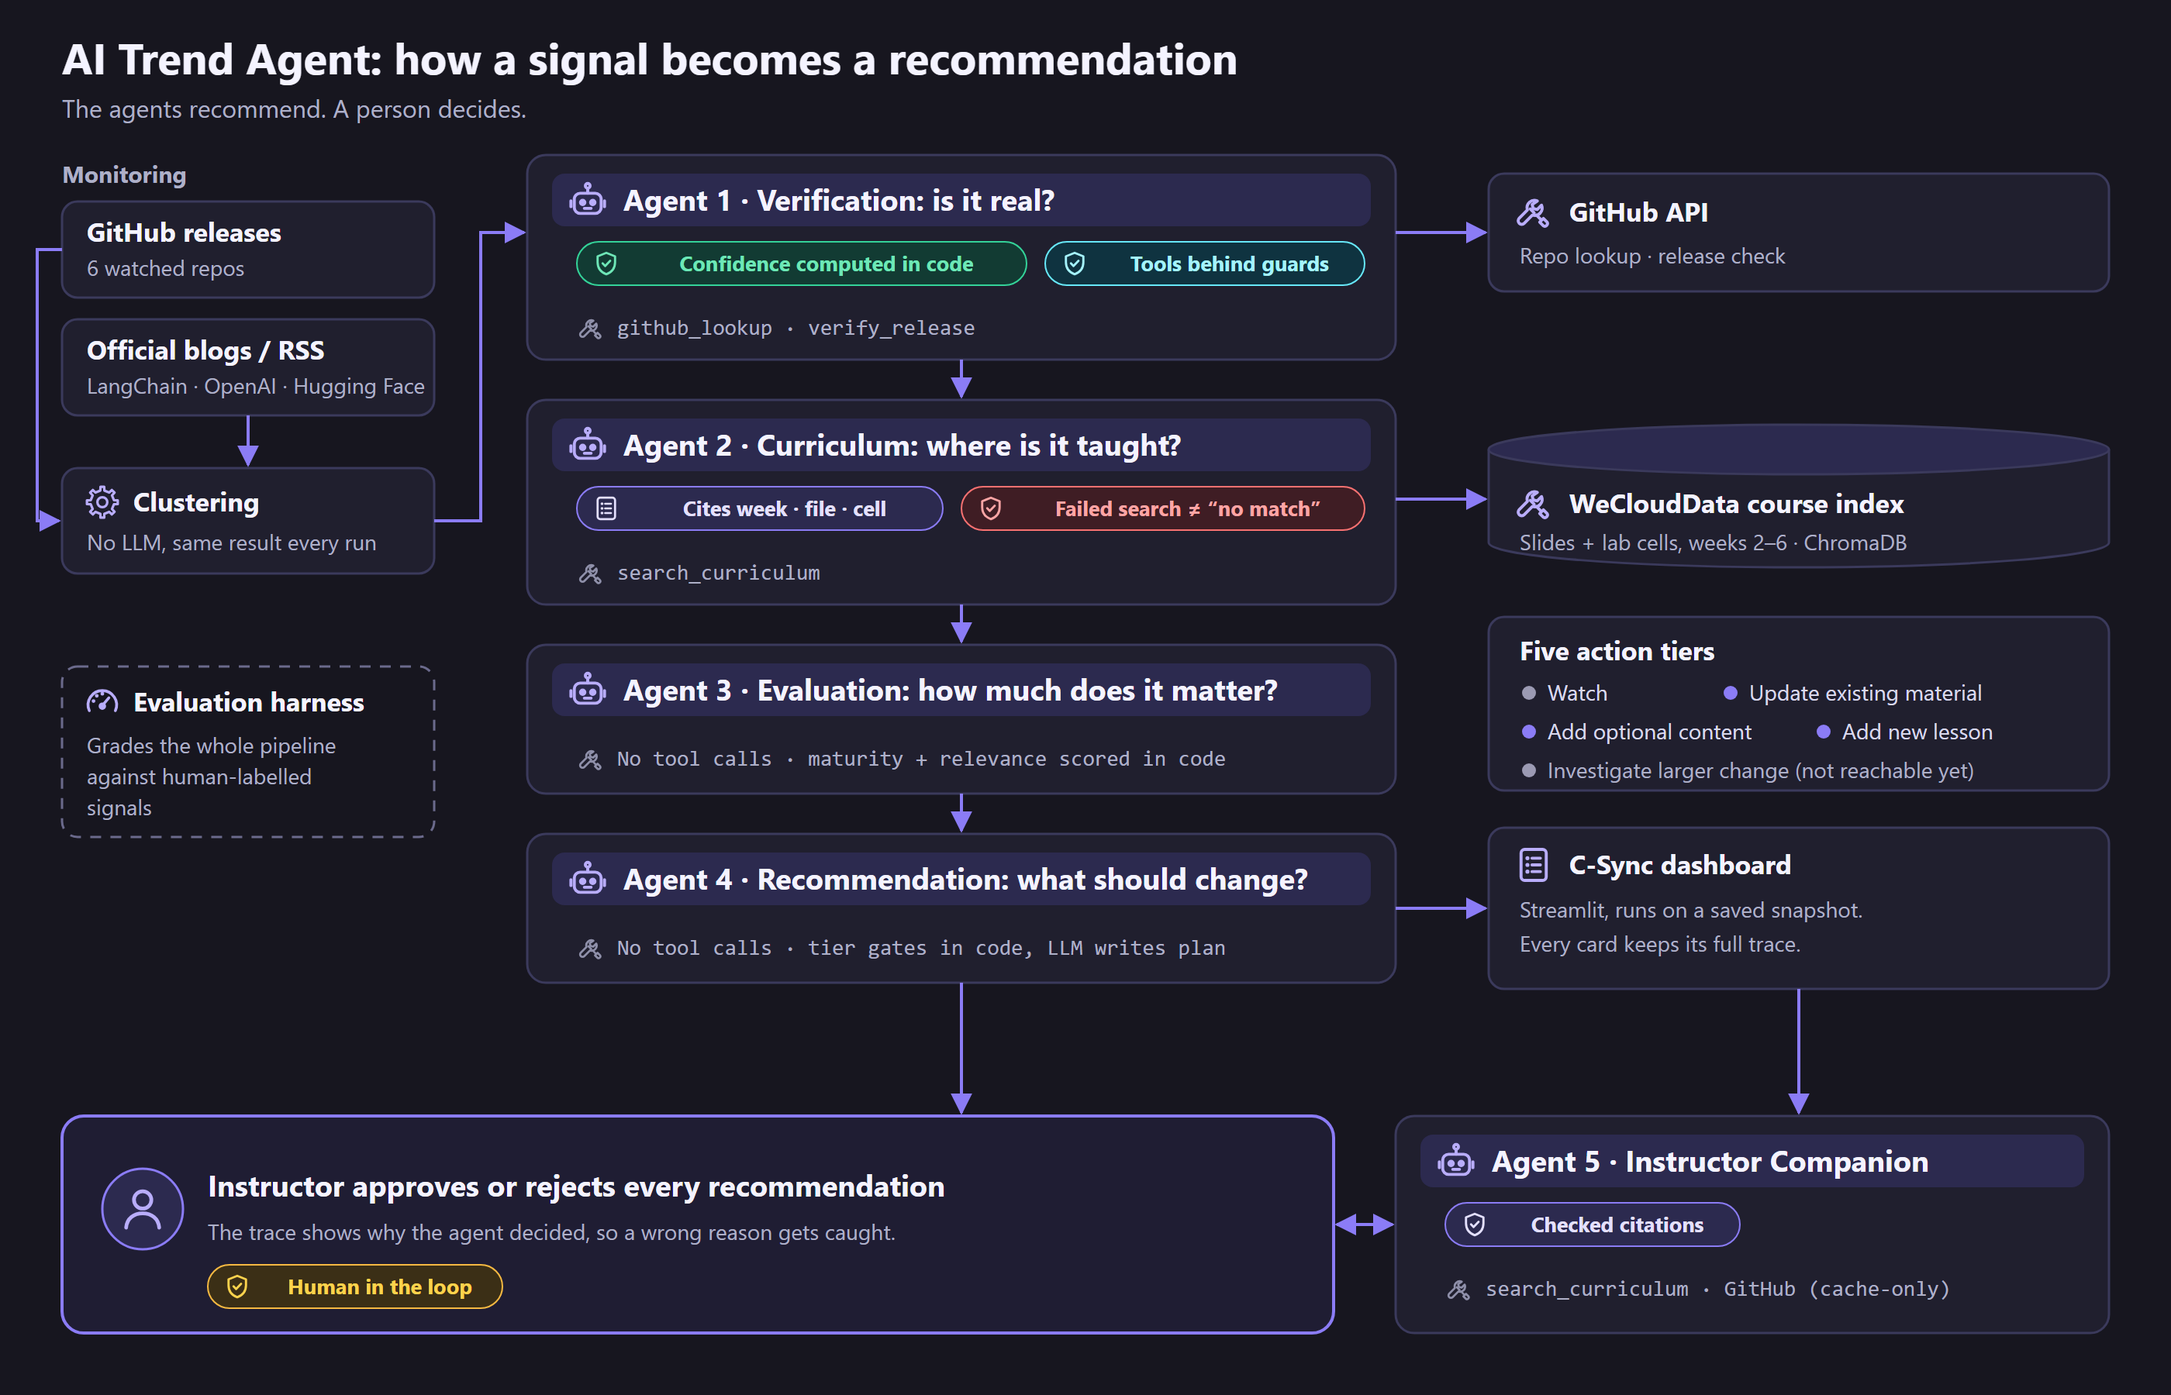
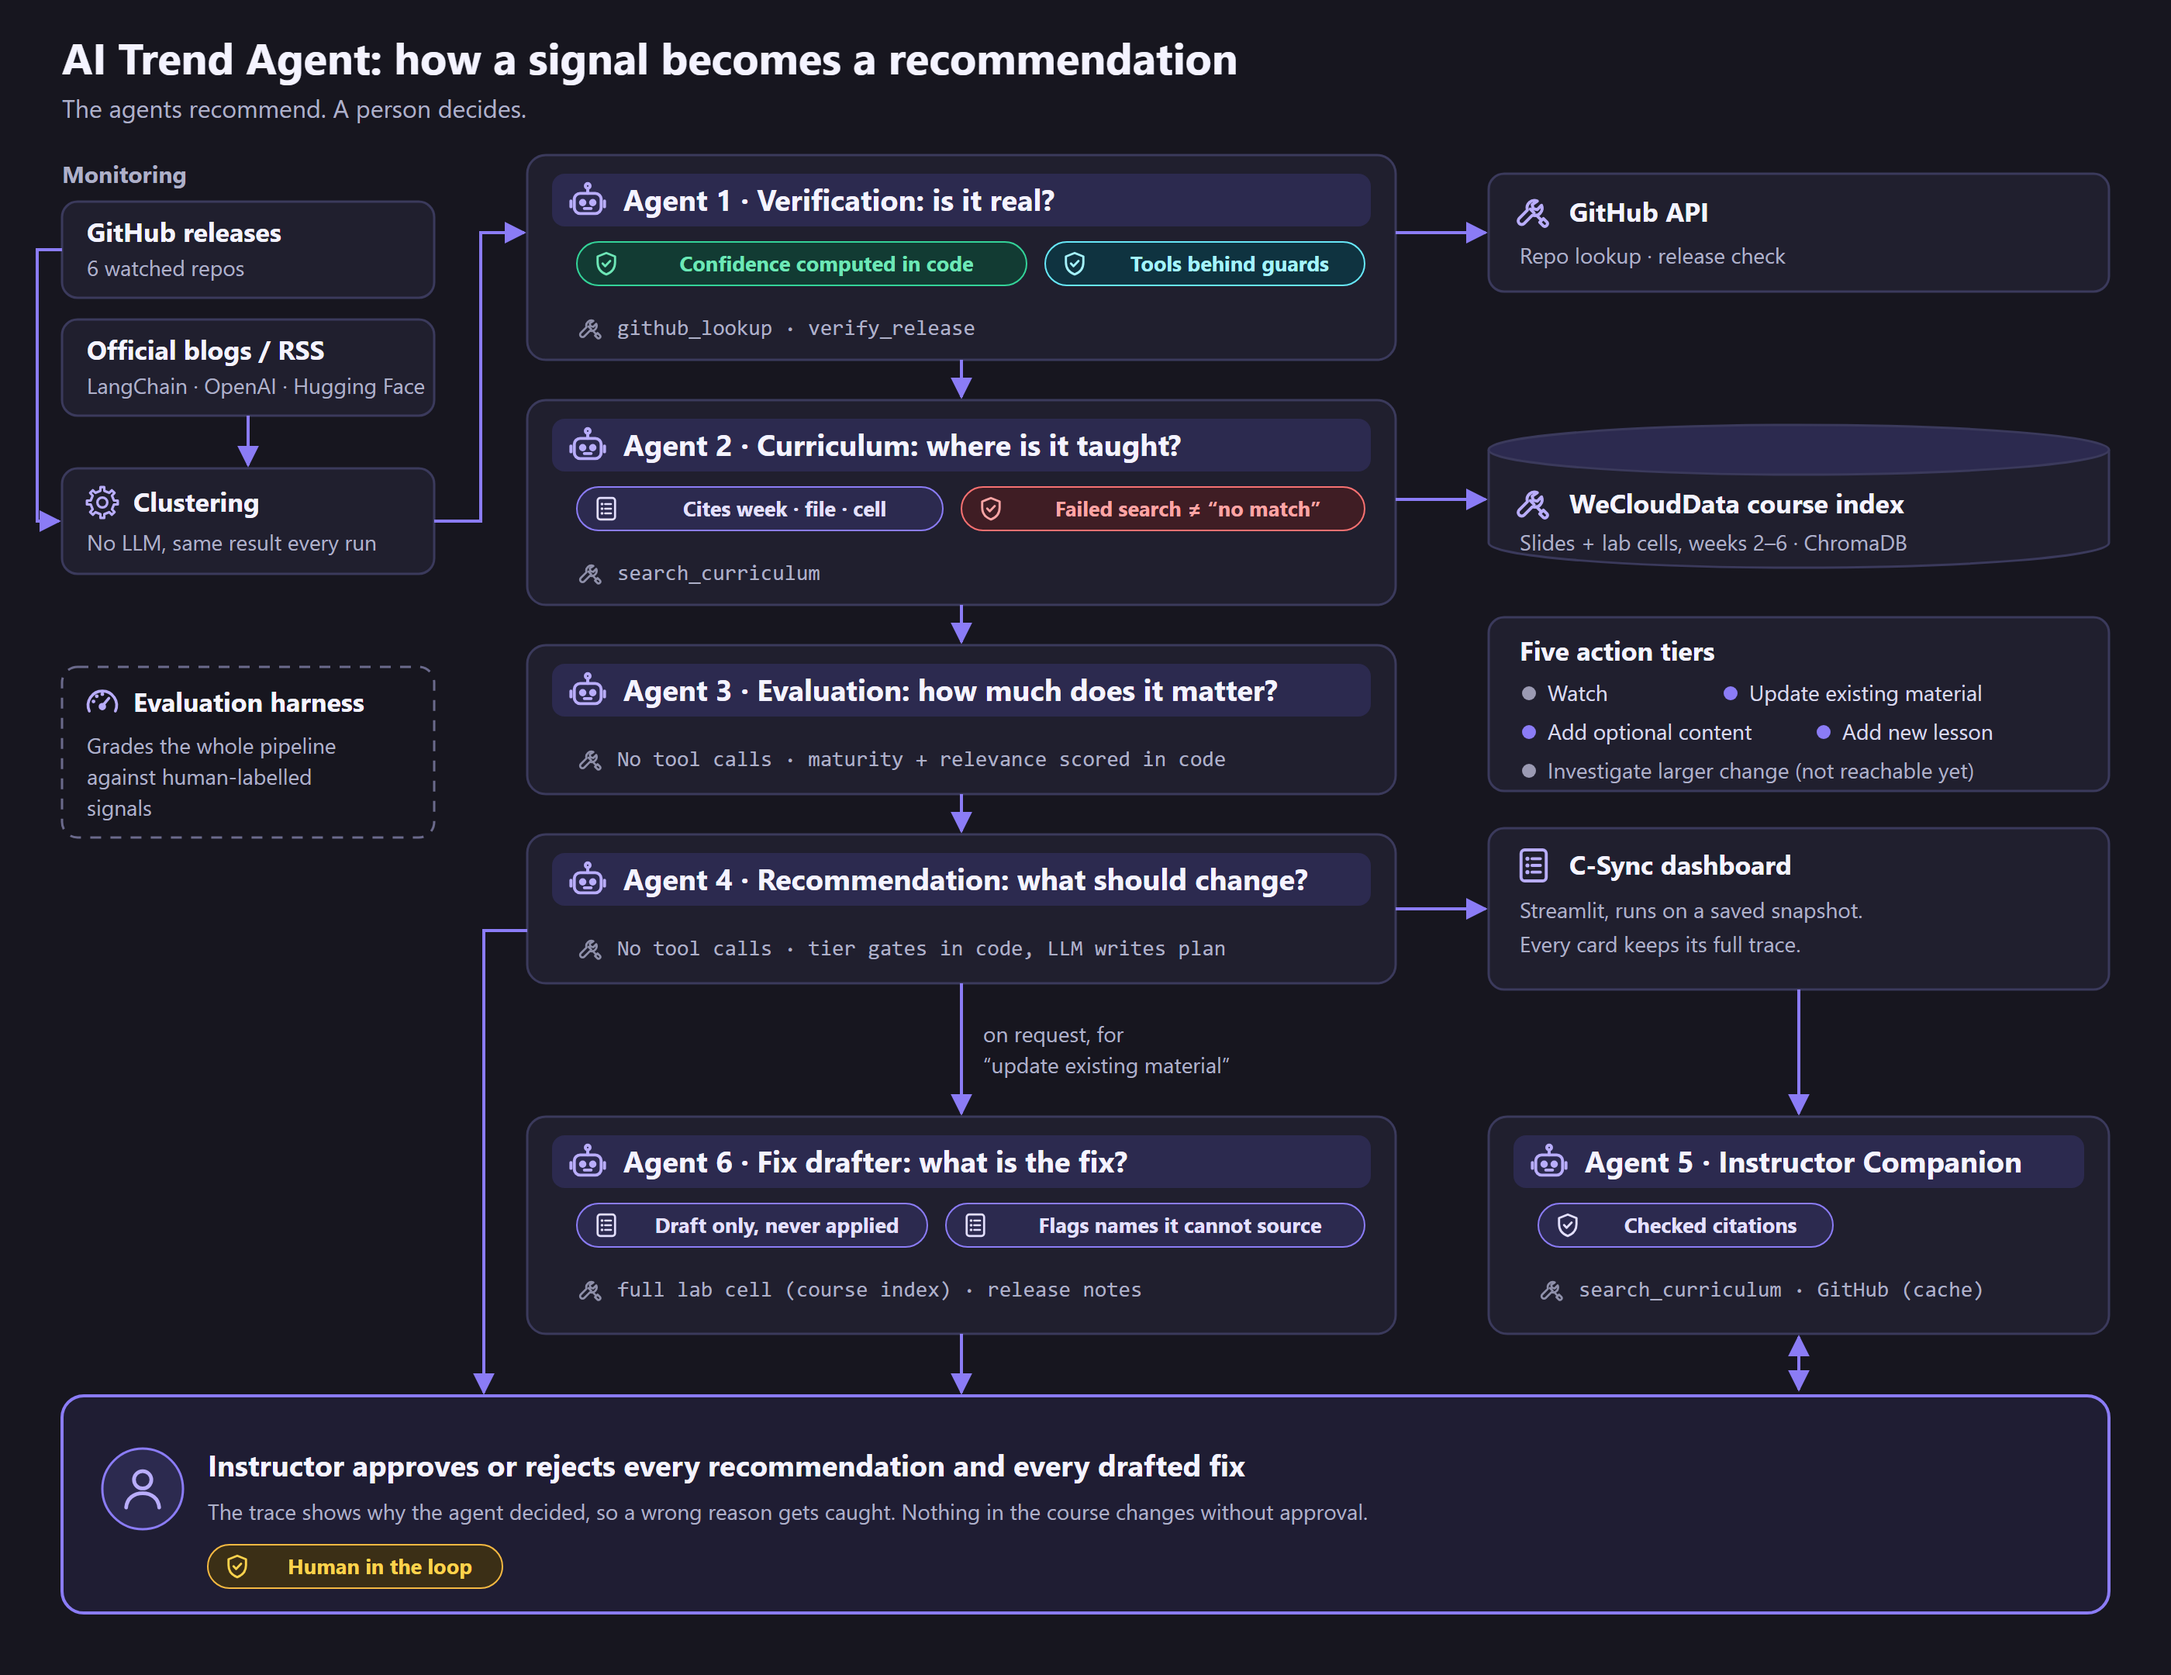
Architecture diagram with the fix drafter; README notes for the submission ZIP

Changed region(s): [[0.0311, 0.0933, 0.9943, 0.9644], [0.0, 0.0311, 0.5904, 0.5911], [0.1864, 0.28, 0.2175, 0.3111]]

diff --git a/README.md b/README.md
@@ -35,7 +35,7 @@ is the work C-sync automates.
 ## How it works
 
 <p align="center">
-  <img src="03_assets/diagrams/architecture.png" alt="Architecture: monitoring and clustering feed four agents, then the C-Sync dashboard, the Instructor Companion, and the instructor who approves" width="900">
+  <img src="03_assets/diagrams/architecture.png" alt="Architecture: monitoring and clustering feed four agents; the C-Sync dashboard, the fix drafter and the Instructor Companion lead to the instructor who approves" width="900">
 </p>
 
 | Stage | What happens | Tools |
@@ -47,6 +47,7 @@ is the work C-sync automates.
 | Agent 3: Evaluation | *How much does it matter?* Maturity and relevance | none |
 | Agent 4: Recommendation | *What should change?* One of five action tiers, plus a plan | none |
 | Agent 5: Instructor Companion | Answers an instructor's questions about one recommendation, with citations | `search_curriculum`, GitHub (cache only) |
+| Agent 6: Fix drafter | *What is the fix?* On request, drafts the changed lab cell for an "update existing material" recommendation, from the full cell and the release notes. A draft only, never applied | course index (full cell), release evidence |
 
 The five action tiers are `watch`, `update_existing_material`,
 `add_optional_content`, `add_new_lesson` and `investigate_larger_change`.
@@ -161,6 +162,10 @@ python 02_src/curriculum_ingest.py --curriculum 01_data/curriculum --db ./vector
 python 02_src/curriculum_ingest.py --db ./vectorstore --query "chunking" --week 2
 ```
 
+The submission ZIP already contains a prebuilt `vectorstore/`, so the Ask page
+and "Draft the fix" work from the ZIP without this step. The course files
+themselves are not included.
+
 ## Testing and evaluation
 
 ```powershell
@@ -234,6 +239,10 @@ citations and tiers, and a missing label is never counted as zero. See
 c_sync/                     C-sync, the interface (Streamlit)
 Dockerfile, docker-compose.yml
 ```
+
+Beyond the five standard items (`01_data/`, `02_src/`, `03_assets/`,
+`requirements.txt`, `README.md`), `04_eval/` holds the evaluation harness,
+`c_sync/` the interface, and the Docker files run it in a container.
 
 Generated and private files (`vectorstore/`, `.env`, caches, course material,
 saved decisions) are excluded by `.gitignore`, and from the Docker image by
